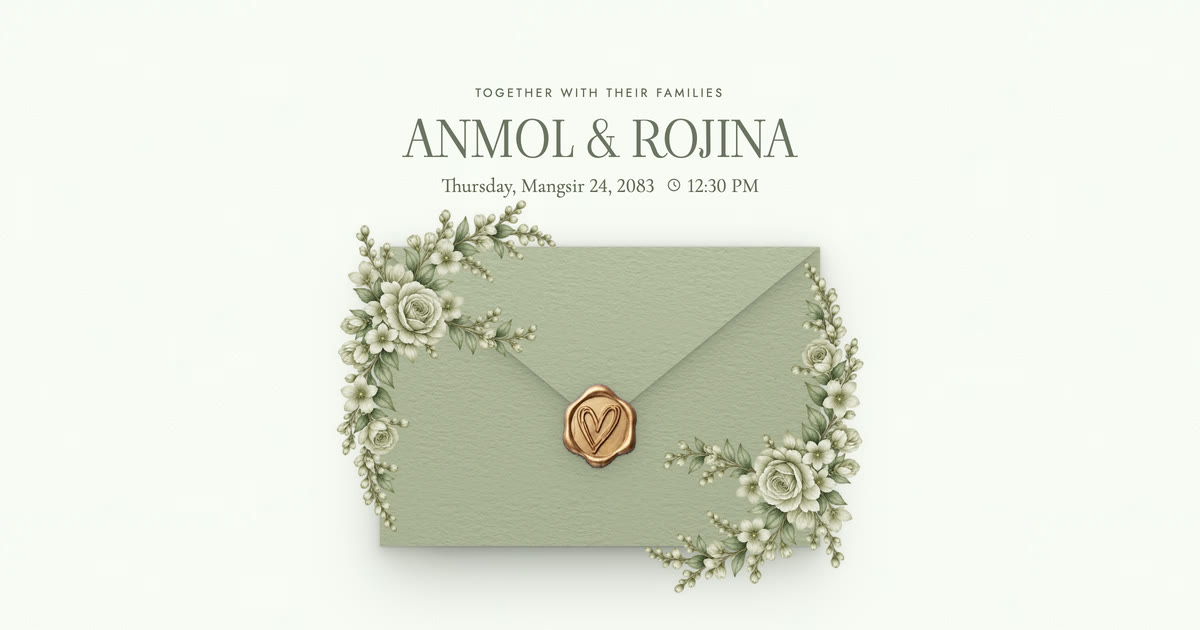
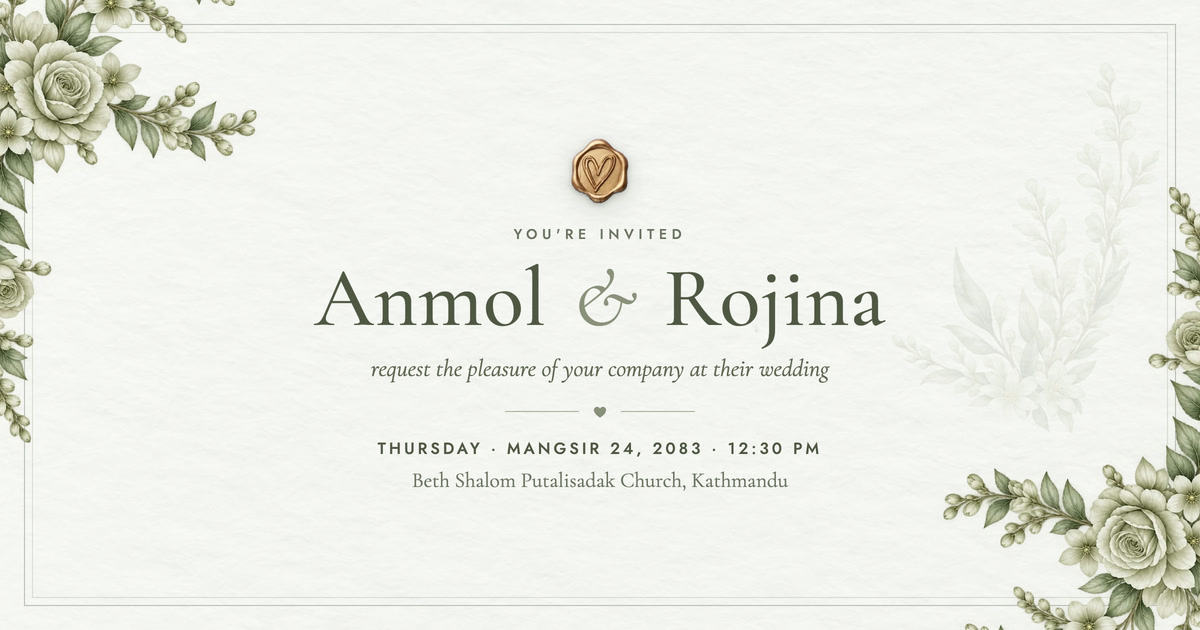
feat: finalization

diff --git a/index.html b/index.html
@@ -32,7 +32,7 @@
     <meta property="og:image:type" content="image/jpeg" />
     <meta property="og:image:width" content="1200" />
     <meta property="og:image:height" content="630" />
-    <meta property="og:image:alt" content="A sage green envelope with flowers and a gold wax seal, with the names Anmol and Rojina above it" />
+    <meta property="og:image:alt" content="Wedding invitation card for Anmol and Rojina, Thursday, Mangsir 24, 2083 at 12:30 PM, Beth Shalom Putalisadak Church, Kathmandu" />
     <meta name="twitter:card" content="summary_large_image" />
     <meta name="twitter:title" content="You&#39;re invited!" />
     <meta name="twitter:description" content="Tap to see the details." />
